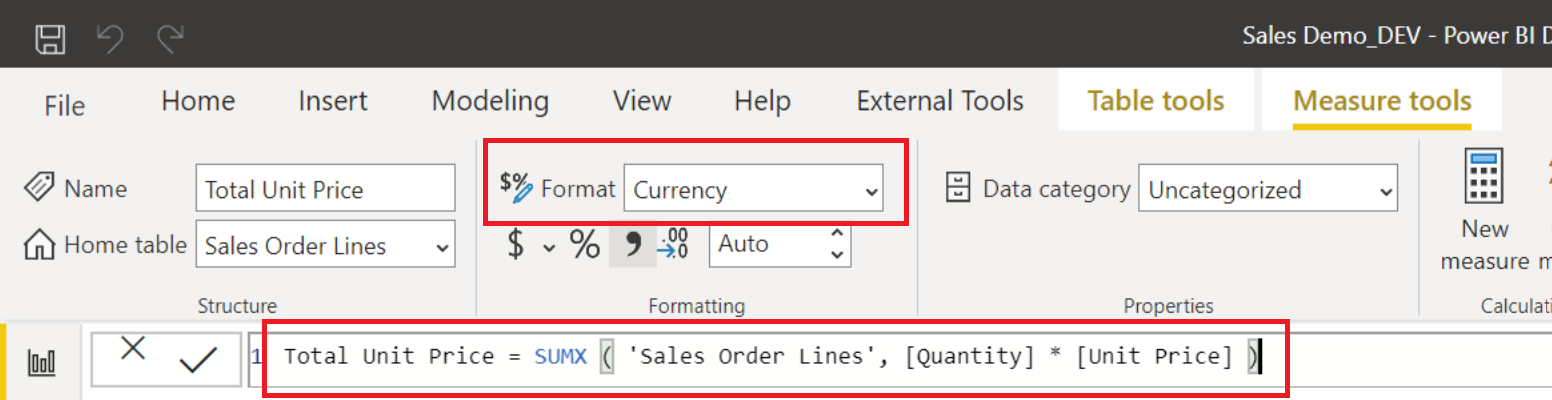
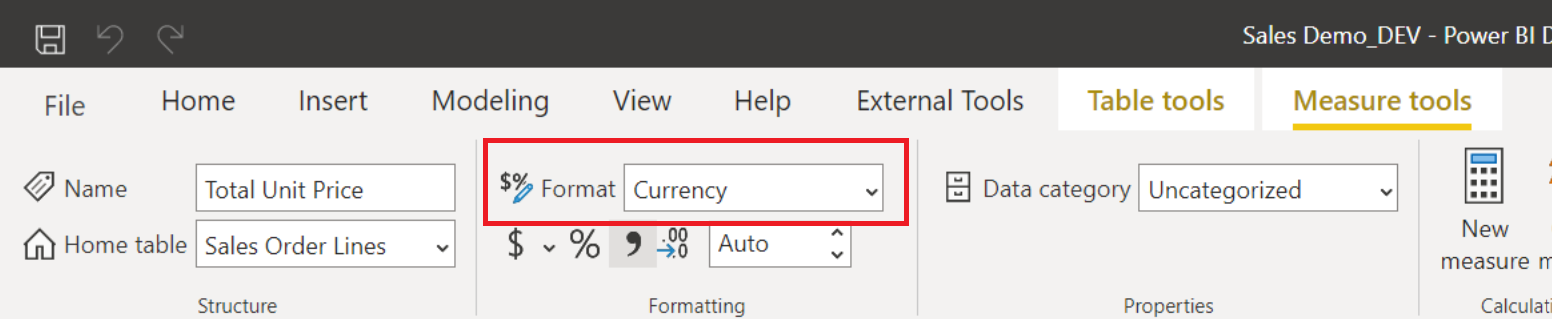
Updates to ALMIAH

Changed region(s): [[0.0, 0.0564, 1.0, 1.0], [0.0, 0.4232, 0.0928, 0.5078], [0.866, 0.5925, 0.8969, 0.6207]]

diff --git a/ALM Toolkit In An Hour/README.md b/ALM Toolkit In An Hour/README.md
@@ -187,9 +187,8 @@ Within ALM Toolkit modelers can Create, Update, Delete or Skip items that are in
         2. Alternate select the table name and select **New Measure** to create the following measures that will **need to be properly tested** before publishing.
             1. ```Total Quantity = SUM('Sales Order Lines'[Quantity])```
             2. ```Total Quantity MTD = TOTALMTD([Total Quantity], 'Calendar'[Date])```
-        3. Select the **Total Unit Price** measure and correct the following DAX expression and set the **Format** property to **Currency**.
-    
-            ```Total Unit Price = SUMX('Sales Order Lines', [Quantity] * [Unit Price])```
+            3. ```Total Quantity YTD = TOTALYTD([Total Quantity], 'Calendar'[Date])```
+        3. Select the **Total Unit Price** measure and set the **Format** property to **Currency**.
 
 ![DAX Measure](./Images/DAX_Measure.png)
 
@@ -210,8 +209,9 @@ Within ALM Toolkit modelers can Create, Update, Delete or Skip items that are in
         1. Source Name **Total Unit Price**
         2. Source Name **Total Quantity**
         3. Source Name **Total Quantity MTD**
+        4. Source Name **Total Quantity YTD**
         
-5. Select the Source Name **Total Quantity** and **Total Quantity MTD** by holding Shift to multi-select, alternate select and choose the **Skip selected objects** option to change the **Action** to **Skip**.
+5. Select the Source Name **Total Quantity MTD** and **Total Quantity YTD** by holding Shift to multi-select, alternate select and choose the **Skip selected objects** option to change the **Action** to **Skip**.
         
 ![Comparison](./Images/SkipObjects.png)
 
